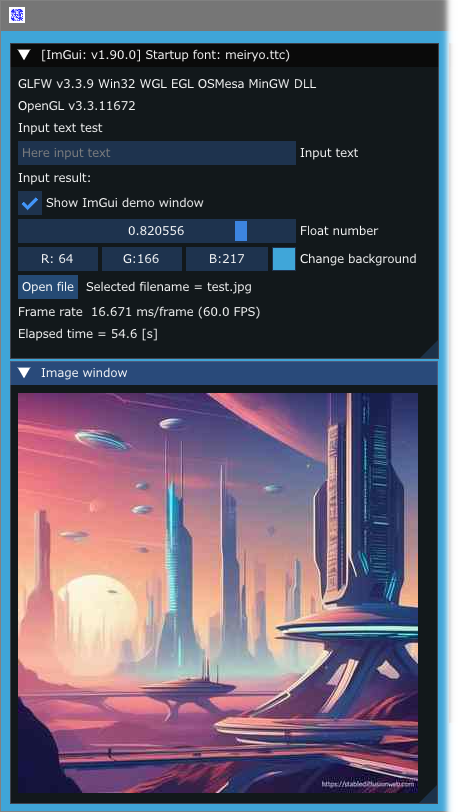
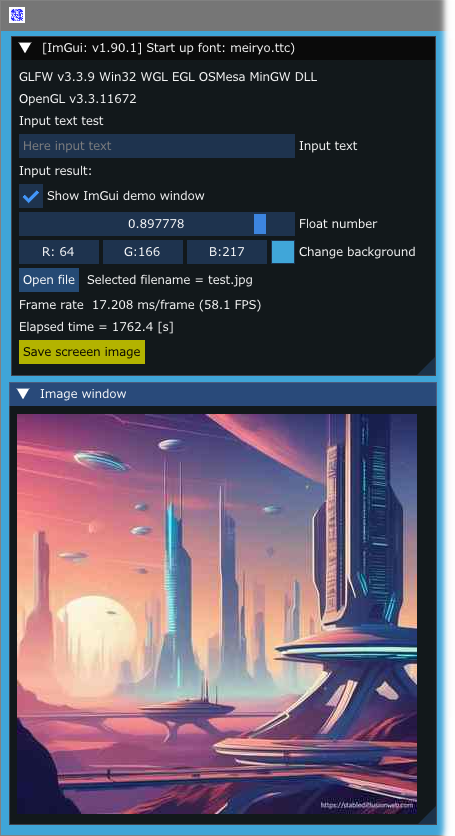
updated: README.md

diff --git a/README.md b/README.md
@@ -5,6 +5,7 @@
   - [Notice](#notice)
   - [Project](#project)
   - [Versions](#versions)
+  - [History](#history)
   - [Examples](#examples)
     - [glfw_opengl3](#glfw_opengl3)
     - [glfw_opengl3_implot](#glfw_opengl3_implot)
@@ -45,6 +46,13 @@ Windows OS binaries project using [anima](https://github.com/sonoro1234/anima) p
 
 - ImGui v1.90.1
 - LuaJIT 2.1.1697887905 -- Copyright (C) 2005-2023 Mike Pall. https://luajit.o
+
+#### History
+
+---
+
+- 2024/01: Added: Button "Save screen image", can be saved as JPEG, PNG, TIFF, BMP file format, except sdl2_opengl3 demo.
+
 
 #### Examples
 
